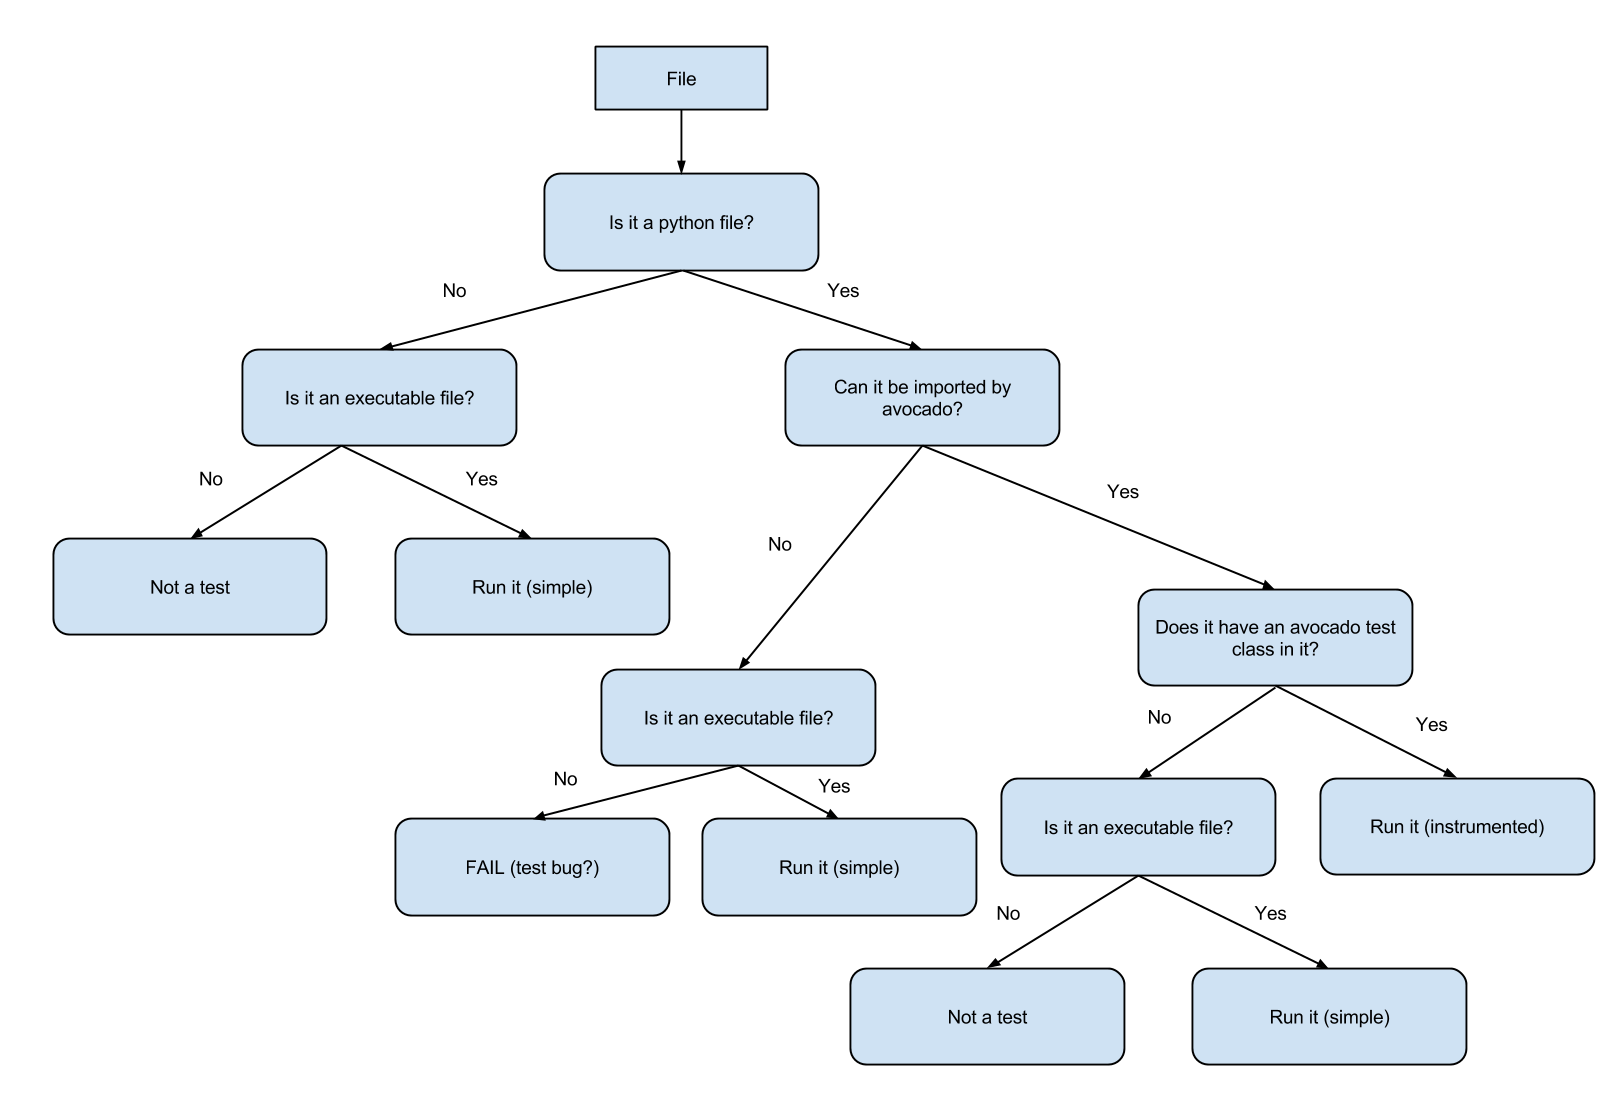
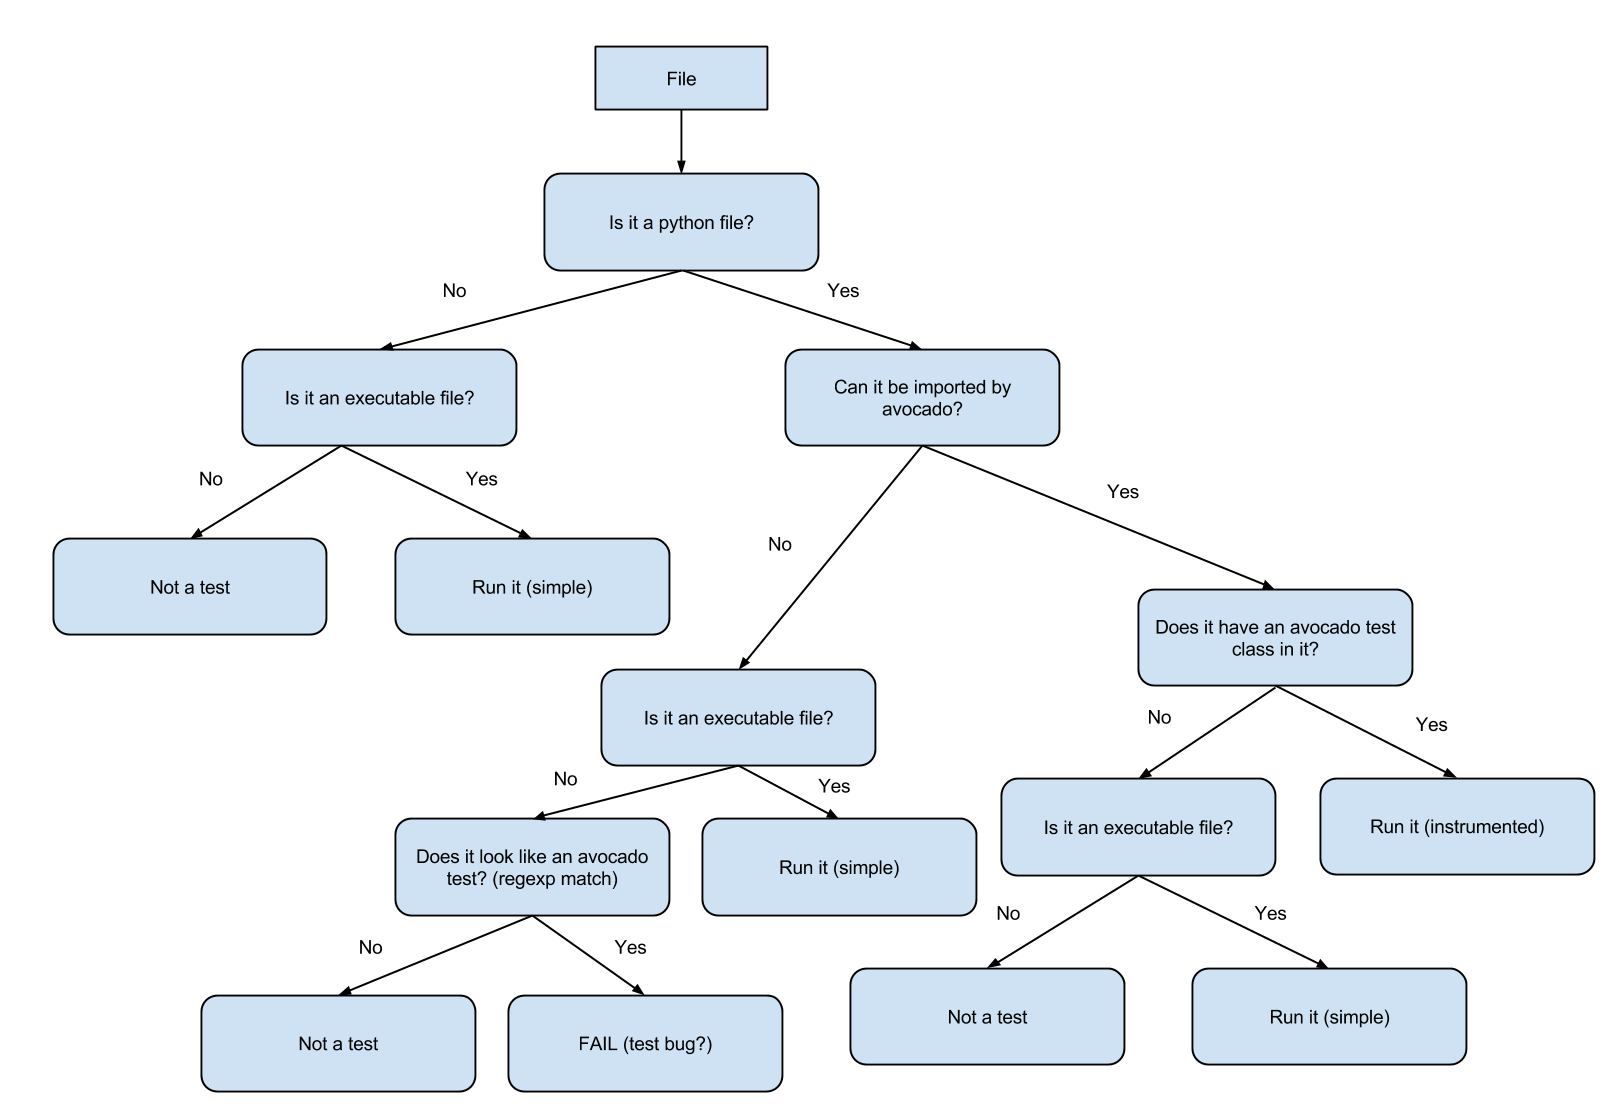
avocado: Add another branch in test detection heuristics
It occurred to us that we can tell apart a buggy avocado
test from a random buggy module since all avocado instrumented
tests will have an avocado import. Therefore, let's do a regexp
search on the module to see if we find an avocado import header.

Of course, this still has room for mistakes, but this is a
best effort enterprise anyway. Update the diagram with the
extra branch in the test resolution.

Changed region(s): [[0.1235, 0.8891, 0.4938, 1.0], [0.2469, 0.7665, 0.4012, 0.7971]]

diff --git a/avocado/loader.py b/avocado/loader.py
@@ -18,6 +18,7 @@ Test loader module.
 """
 
 import os
+import re
 import sys
 import imp
 import inspect
@@ -99,18 +100,35 @@ class TestLoader(object):
                     test_class = test.NotATest
                     test_parameters = test_parameters_queue
 
-        except ImportError, details:
+        # Since a lot of things can happen here, the broad exception is
+        # justified. The user will get it unadulterated anyway, and avocado
+        # will not crash.
+        except Exception, details:
             if os.access(test_path, os.X_OK):
                 # Module can't be imported, and it's executable. Let's try to
                 # execute it.
                 test_class = test.SimpleTest
                 test_parameters = test_parameters_simple
             else:
-                # Module can't be imported and it's not an executable. Our
-                # best guess is that this is a buggy test.
-                test_class = test.BuggyTest
-                params['exception'] = details
+                # Module can't be imported and it's not an executable. Let's
+                # see if there's an avocado import into the test. Although
+                # not entirely reliable, we hope it'll be good enough.
+                likely_avocado_test = False
+                with open(test_path, 'r') as test_file_obj:
+                    test_contents = test_file_obj.read()
+                    # Actual tests will have imports starting on column 0
+                    patterns = ['^from avocado.* import', '^import avocado.*']
+                    for pattern in patterns:
+                        if re.search(pattern, test_contents, re.MULTILINE):
+                            likely_avocado_test = True
+                            break
+                if likely_avocado_test:
+                    test_class = test.BuggyTest
+                    params['exception'] = details
+                else:
+                    test_class = test.NotATest
                 test_parameters = test_parameters_queue
+
         sys.path.pop(sys.path.index(test_module_dir))
 
         return test_class, test_parameters
